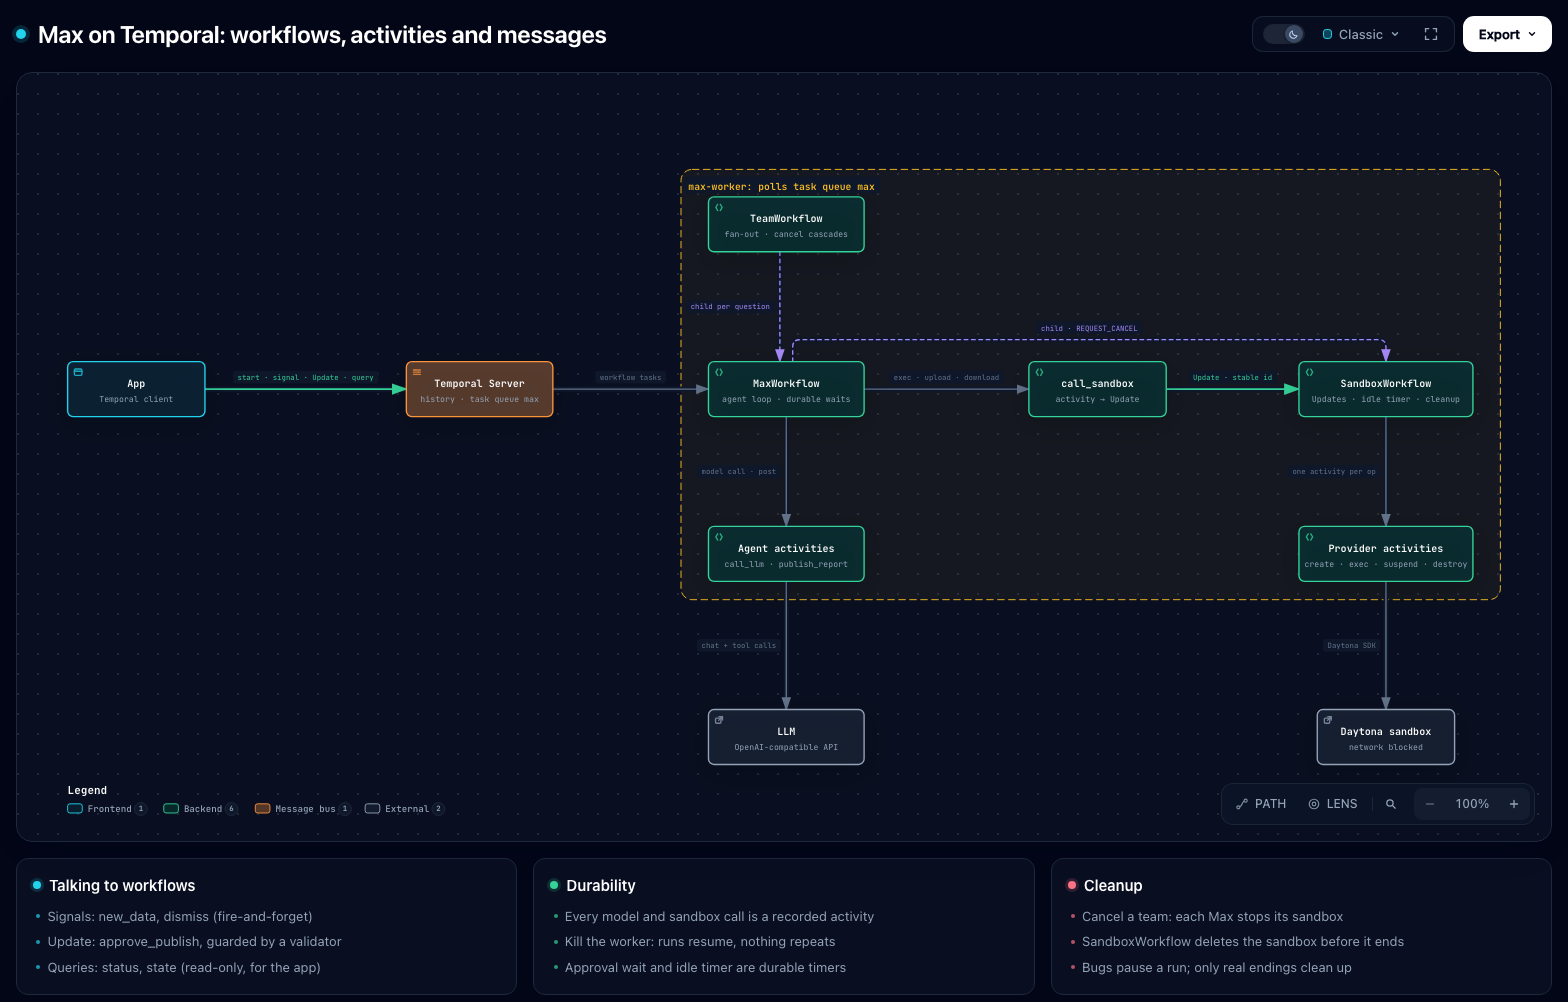
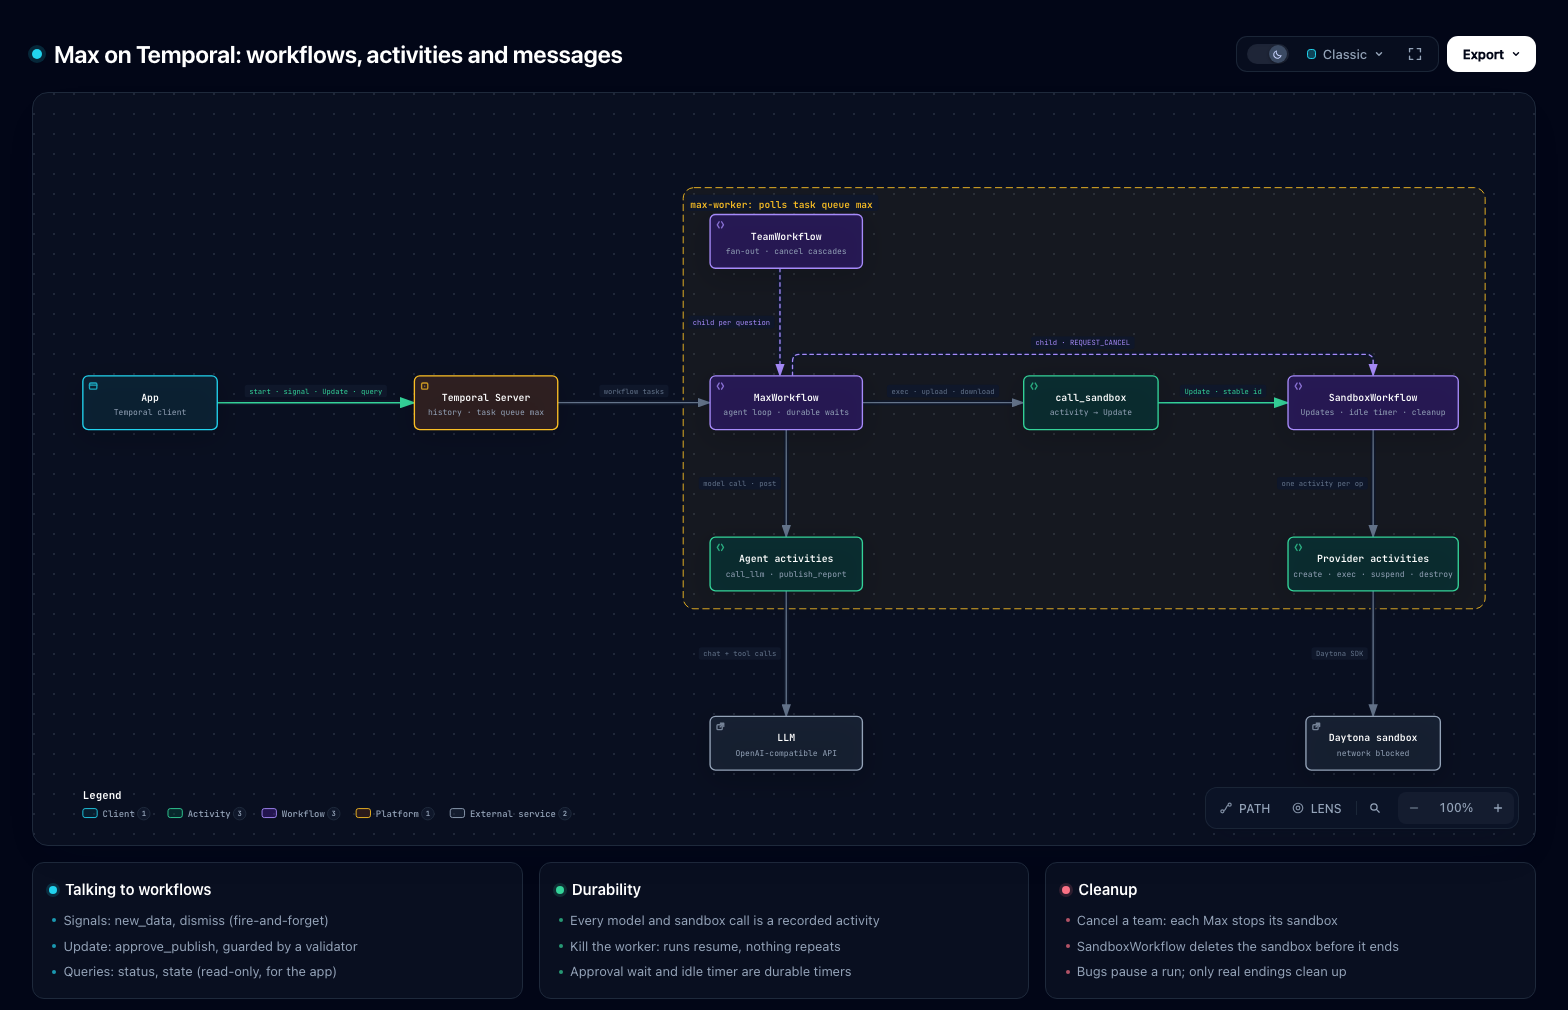
Update arch diagram

diff --git a/docs/architecture/max-architecture.html b/docs/architecture/max-architecture.html
@@ -5072,30 +5072,28 @@ OTHER DEALINGS IN THE FONT SOFTWARE.
         <text data-detail="context" x="115" y="344" class="t-muted" font-size="9" text-anchor="middle">Temporal client</text>
         </g>
 
-        <g id="node-temporal" data-node-id="temporal" data-node-label="Temporal Server" tabindex="0" role="button" aria-label="Focus Temporal Server, history · task queue max, Architecture component" aria-pressed="false" data-node-kind="messagebus" data-node-sublabel="history · task queue max" data-node-context="Architecture component">
+        <g id="node-temporal" data-node-id="temporal" data-node-label="Temporal Server" tabindex="0" role="button" aria-label="Focus Temporal Server, history · task queue max, Architecture component" aria-pressed="false" data-node-kind="cloud" data-node-sublabel="history · task queue max" data-node-context="Architecture component">
           <title>Temporal Server · history · task queue max · Architecture component</title>
           <rect x="410" y="300" width="160" height="60" rx="6" class="c-mask"/>
-          <rect x="410" y="300" width="160" height="60" rx="6" class="c-messagebus" stroke-width="1.5"/>
-          <g aria-hidden="true" data-semantic-sigil="messagebus" class="semantic-sigil s-messagebus" transform="translate(416 306) scale(0.6875)">
-            <path d="M2.5 4.5h11M2.5 8h11M2.5 11.5h11"/>
-            <circle cx="5" cy="4.5" r="1" class="sigil-fill"/>
-            <circle cx="10.5" cy="8" r="1" class="sigil-fill"/>
-            <circle cx="7" cy="11.5" r="1" class="sigil-fill"/>
+          <rect x="410" y="300" width="160" height="60" rx="6" class="c-cloud" stroke-width="1.5"/>
+          <g aria-hidden="true" data-semantic-sigil="neutral" class="semantic-sigil s-cloud" transform="translate(416 306) scale(0.6875)">
+            <rect x="3" y="3" width="10" height="10" rx="2"/>
+            <circle cx="8" cy="8" r="1.2" class="sigil-fill"/>
           </g>
           <text data-node-label="" data-detail-anchor="" x="490" y="328" class="t-primary" font-size="11" font-weight="600" text-anchor="middle">Temporal Server</text>
         <text data-detail="context" x="490" y="344" class="t-muted" font-size="9" text-anchor="middle">history · task queue max</text>
         </g>
 
-        <g id="node-maxwf" data-node-id="maxwf" data-node-label="MaxWorkflow" tabindex="0" role="button" aria-label="Focus MaxWorkflow, agent loop · durable waits, max-worker: polls task queue max" aria-pressed="false" data-node-kind="backend" data-node-sublabel="agent loop · durable waits" data-node-tag="workflow" data-node-context="max-worker: polls task queue max">
+        <g id="node-maxwf" data-node-id="maxwf" data-node-label="MaxWorkflow" tabindex="0" role="button" aria-label="Focus MaxWorkflow, agent loop · durable waits, max-worker: polls task queue max" aria-pressed="false" data-node-kind="database" data-node-sublabel="agent loop · durable waits" data-node-tag="workflow" data-node-context="max-worker: polls task queue max">
           <title>MaxWorkflow · agent loop · durable waits · max-worker: polls task queue max · workflow</title>
           <rect x="740" y="300" width="170" height="60" rx="6" class="c-mask"/>
-          <rect x="740" y="300" width="170" height="60" rx="6" class="c-backend" stroke-width="1.5"/>
-          <g aria-hidden="true" data-semantic-sigil="backend" class="semantic-sigil s-backend" transform="translate(746 306) scale(0.6875)">
+          <rect x="740" y="300" width="170" height="60" rx="6" class="c-database" stroke-width="1.5"/>
+          <g aria-hidden="true" data-semantic-sigil="backend" class="semantic-sigil s-database" transform="translate(746 306) scale(0.6875)">
             <path d="M6 3 3 8l3 5M10 3l3 5-3 5"/>
           </g>
           <text data-node-label="" data-detail-anchor="" x="825" y="328" class="t-primary" font-size="11" font-weight="600" text-anchor="middle">MaxWorkflow</text>
         <text data-detail="context" x="825" y="344" class="t-muted" font-size="9" text-anchor="middle">agent loop · durable waits</text>
-        <text data-detail="fine" x="825" y="352" class="t-backend" font-size="7" text-anchor="middle">workflow</text>
+        <text data-detail="fine" x="825" y="352" class="t-database" font-size="7" text-anchor="middle">workflow</text>
         </g>
 
         <g id="node-callsandbox" data-node-id="callsandbox" data-node-label="call_sandbox" tabindex="0" role="button" aria-label="Focus call_sandbox, activity → Update, max-worker: polls task queue max" aria-pressed="false" data-node-kind="backend" data-node-sublabel="activity → Update" data-node-tag="activity" data-node-context="max-worker: polls task queue max">
@@ -5110,28 +5108,28 @@ OTHER DEALINGS IN THE FONT SOFTWARE.
         <text data-detail="fine" x="1165" y="352" class="t-backend" font-size="7" text-anchor="middle">activity</text>
         </g>
 
-        <g id="node-sandboxwf" data-node-id="sandboxwf" data-node-label="SandboxWorkflow" tabindex="0" role="button" aria-label="Focus SandboxWorkflow, Updates · idle timer · cleanup, max-worker: polls task queue max" aria-pressed="false" data-node-kind="backend" data-node-sublabel="Updates · idle timer · cleanup" data-node-tag="workflow" data-node-context="max-worker: polls task queue max">
+        <g id="node-sandboxwf" data-node-id="sandboxwf" data-node-label="SandboxWorkflow" tabindex="0" role="button" aria-label="Focus SandboxWorkflow, Updates · idle timer · cleanup, max-worker: polls task queue max" aria-pressed="false" data-node-kind="database" data-node-sublabel="Updates · idle timer · cleanup" data-node-tag="workflow" data-node-context="max-worker: polls task queue max">
           <title>SandboxWorkflow · Updates · idle timer · cleanup · max-worker: polls task queue max · workflow</title>
           <rect x="1385" y="300" width="190" height="60" rx="6" class="c-mask"/>
-          <rect x="1385" y="300" width="190" height="60" rx="6" class="c-backend" stroke-width="1.5"/>
-          <g aria-hidden="true" data-semantic-sigil="backend" class="semantic-sigil s-backend" transform="translate(1391 306) scale(0.6875)">
+          <rect x="1385" y="300" width="190" height="60" rx="6" class="c-database" stroke-width="1.5"/>
+          <g aria-hidden="true" data-semantic-sigil="backend" class="semantic-sigil s-database" transform="translate(1391 306) scale(0.6875)">
             <path d="M6 3 3 8l3 5M10 3l3 5-3 5"/>
           </g>
           <text data-node-label="" data-detail-anchor="" x="1480" y="328" class="t-primary" font-size="11" font-weight="600" text-anchor="middle">SandboxWorkflow</text>
         <text data-detail="context" x="1480" y="344" class="t-muted" font-size="9" text-anchor="middle">Updates · idle timer · cleanup</text>
-        <text data-detail="fine" x="1480" y="352" class="t-backend" font-size="7" text-anchor="middle">workflow</text>
+        <text data-detail="fine" x="1480" y="352" class="t-database" font-size="7" text-anchor="middle">workflow</text>
         </g>
 
-        <g id="node-team" data-node-id="team" data-node-label="TeamWorkflow" tabindex="0" role="button" aria-label="Focus TeamWorkflow, fan-out · cancel cascades, max-worker: polls task queue max" aria-pressed="false" data-node-kind="backend" data-node-sublabel="fan-out · cancel cascades" data-node-tag="workflow" data-node-context="max-worker: polls task queue max">
+        <g id="node-team" data-node-id="team" data-node-label="TeamWorkflow" tabindex="0" role="button" aria-label="Focus TeamWorkflow, fan-out · cancel cascades, max-worker: polls task queue max" aria-pressed="false" data-node-kind="database" data-node-sublabel="fan-out · cancel cascades" data-node-tag="workflow" data-node-context="max-worker: polls task queue max">
           <title>TeamWorkflow · fan-out · cancel cascades · max-worker: polls task queue max · workflow</title>
           <rect x="740" y="120" width="170" height="60" rx="6" class="c-mask"/>
-          <rect x="740" y="120" width="170" height="60" rx="6" class="c-backend" stroke-width="1.5"/>
-          <g aria-hidden="true" data-semantic-sigil="backend" class="semantic-sigil s-backend" transform="translate(746 126) scale(0.6875)">
+          <rect x="740" y="120" width="170" height="60" rx="6" class="c-database" stroke-width="1.5"/>
+          <g aria-hidden="true" data-semantic-sigil="backend" class="semantic-sigil s-database" transform="translate(746 126) scale(0.6875)">
             <path d="M6 3 3 8l3 5M10 3l3 5-3 5"/>
           </g>
           <text data-node-label="" data-detail-anchor="" x="825" y="148" class="t-primary" font-size="11" font-weight="600" text-anchor="middle">TeamWorkflow</text>
         <text data-detail="context" x="825" y="164" class="t-muted" font-size="9" text-anchor="middle">fan-out · cancel cascades</text>
-        <text data-detail="fine" x="825" y="172" class="t-backend" font-size="7" text-anchor="middle">workflow</text>
+        <text data-detail="fine" x="825" y="172" class="t-database" font-size="7" text-anchor="middle">workflow</text>
         </g>
 
         <g id="node-agentacts" data-node-id="agentacts" data-node-label="Agent activities" tabindex="0" role="button" aria-label="Focus Agent activities, call_llm · publish_report, max-worker: polls task queue max" aria-pressed="false" data-node-kind="backend" data-node-sublabel="call_llm · publish_report" data-node-tag="activity" data-node-context="max-worker: polls task queue max">
@@ -5233,21 +5231,25 @@ OTHER DEALINGS IN THE FONT SOFTWARE.
         <!-- Legend -->
         <g data-legend="" data-legend-bridge="">
           <text x="40" y="772" class="t-primary" font-size="12" font-weight="650">Legend</text>
-          <g data-legend-semantic-kind="frontend" data-legend-kind="frontend" data-legend-label="Frontend" data-legend-x="40" data-legend-baseline="792" data-legend-width="83">
+          <g data-legend-semantic-kind="frontend" data-legend-kind="frontend" data-legend-label="Client" data-legend-x="40" data-legend-baseline="792" data-legend-width="73">
             <rect x="40" y="783" width="16" height="10" rx="2.5" class="c-frontend" stroke-width="1"/>
-            <text x="62" y="792" class="t-muted" font-size="10" font-weight="500">Frontend</text>
+            <text x="62" y="792" class="t-muted" font-size="10" font-weight="500">Client</text>
           </g>
-          <g data-legend-semantic-kind="backend" data-legend-kind="backend" data-legend-label="Backend" data-legend-x="145" data-legend-baseline="792" data-legend-width="78">
-            <rect x="145" y="783" width="16" height="10" rx="2.5" class="c-backend" stroke-width="1"/>
-            <text x="167" y="792" class="t-muted" font-size="10" font-weight="500">Backend</text>
+          <g data-legend-semantic-kind="backend" data-legend-kind="backend" data-legend-label="Activity" data-legend-x="135" data-legend-baseline="792" data-legend-width="83">
+            <rect x="135" y="783" width="16" height="10" rx="2.5" class="c-backend" stroke-width="1"/>
+            <text x="157" y="792" class="t-muted" font-size="10" font-weight="500">Activity</text>
           </g>
-          <g data-legend-semantic-kind="messagebus" data-legend-kind="messagebus" data-legend-label="Message bus" data-legend-x="245" data-legend-baseline="792" data-legend-width="98">
-            <rect x="245" y="783" width="16" height="10" rx="2.5" class="c-messagebus" stroke-width="1"/>
-            <text x="267" y="792" class="t-muted" font-size="10" font-weight="500">Message bus</text>
+          <g data-legend-semantic-kind="database" data-legend-kind="database" data-legend-label="Workflow" data-legend-x="240" data-legend-baseline="792" data-legend-width="83">
+            <rect x="240" y="783" width="16" height="10" rx="2.5" class="c-database" stroke-width="1"/>
+            <text x="262" y="792" class="t-muted" font-size="10" font-weight="500">Workflow</text>
           </g>
-          <g data-legend-semantic-kind="external" data-legend-kind="external" data-legend-label="External" data-legend-x="365" data-legend-baseline="792" data-legend-width="83">
-            <rect x="365" y="783" width="16" height="10" rx="2.5" class="c-external" stroke-width="1"/>
-            <text x="387" y="792" class="t-muted" font-size="10" font-weight="500">External</text>
+          <g data-legend-semantic-kind="cloud" data-legend-kind="cloud" data-legend-label="Platform" data-legend-x="345" data-legend-baseline="792" data-legend-width="83">
+            <rect x="345" y="783" width="16" height="10" rx="2.5" class="c-cloud" stroke-width="1"/>
+            <text x="367" y="792" class="t-muted" font-size="10" font-weight="500">Platform</text>
+          </g>
+          <g data-legend-semantic-kind="external" data-legend-kind="external" data-legend-label="External service" data-legend-x="450" data-legend-baseline="792" data-legend-width="123">
+            <rect x="450" y="783" width="16" height="10" rx="2.5" class="c-external" stroke-width="1"/>
+            <text x="472" y="792" class="t-muted" font-size="10" font-weight="500">External service</text>
           </g>
         </g>
       </svg>

diff --git a/DESIGN.md b/DESIGN.md
@@ -64,13 +64,14 @@ Errand-style agents (a browser doing shopping or bookings) are deferred. The too
 - **Helping a small model:** every script gets a preamble (`prompts.PREAMBLE`) that loads `df` with parsed dates and sets up `today`, `plt` and `out/`. The prompt is short and there are only two tools.
 - **Scripted mode:** `LLM_MODE=scripted` replays a fixed plan through the same activity. Checks use it, and it's the fallback for a live session.
 - **Measured on 2026-10-03** (Apple-silicon Mac, Ollama, not Instruqt): about 8–10 s per call. 3 of 4 benchmark questions produced a correct report and chart in 4 steps each; the "growth over two weeks" question ran out of steps.
-- **Still open:** run `scripts/bench_llm.py` on an n2-standard-8 Instruqt VM with CPU only, and switch to `qwen3.5:9b` if 4B is too unreliable there.
+- **CPU was too slow:** on an n2-standard-8 Instruqt VM, `qwen3.5:4b` on Ollama took a median of 67 s per call (2026-10-05).
+- **Shared GPU endpoint (current):** one Daytona RTX 4090 serves `Qwen3.5-9B` (FP8, speculative decoding) to the whole cohort through vLLM (`scripts/gpu_endpoint.py`). On Instruqt, all 6 benchmark questions finished with a median of 4.3 s per call (2026-10-06).
 
 ## Infrastructure (Instruqt)
 
 - A Temporal dev server in the VM, started with `--dynamic-config-value 'history.workflowTaskRetryMaxInterval="5s"'`. Its UI is a tab.
   Without that setting, a paused run waited 2 minutes to resume after a fix that took the learner 4 minutes, because the default backoff keeps growing up to a cap of minutes. With it, the run resumed in 16 s.
-- Ollama runs natively in the VM with the model pre-pulled into the image. Instruqt has no GPUs, so it runs on CPU, on an n2-standard-8 (8 vCPU / 32 GB). On n2-standard-4, warming the model alone took about 2.5 minutes of setup.
+- The model runs on the shared GPU endpoint, so the VM is an n2-standard-4 (4 vCPU / 16 GB) running Temporal, the Max app, the worker and the checks. If the endpoint dies, the fallback is `LLM_MODE=scripted`: Ollama on the VM's CPU (`LLM_BASE_URL: ""`) still works, but at about a minute per call it's too slow for a session.
 - **Daytona:** one org key, supplied as a VM environment variable in `instruqt/sandbox/config.yml`, shared by all learners.
   - Every sandbox is labeled `app=max`, `learner=$LEARNER_ID` and `workflow=<id>`. The cleanup script deletes by label.
   - **The org needs Tier 2 or higher.** Tier 1's 10 vCPU fits about 10 sandboxes in total, and a room of 30 learners with a team of 3 each needs up to about 120.
